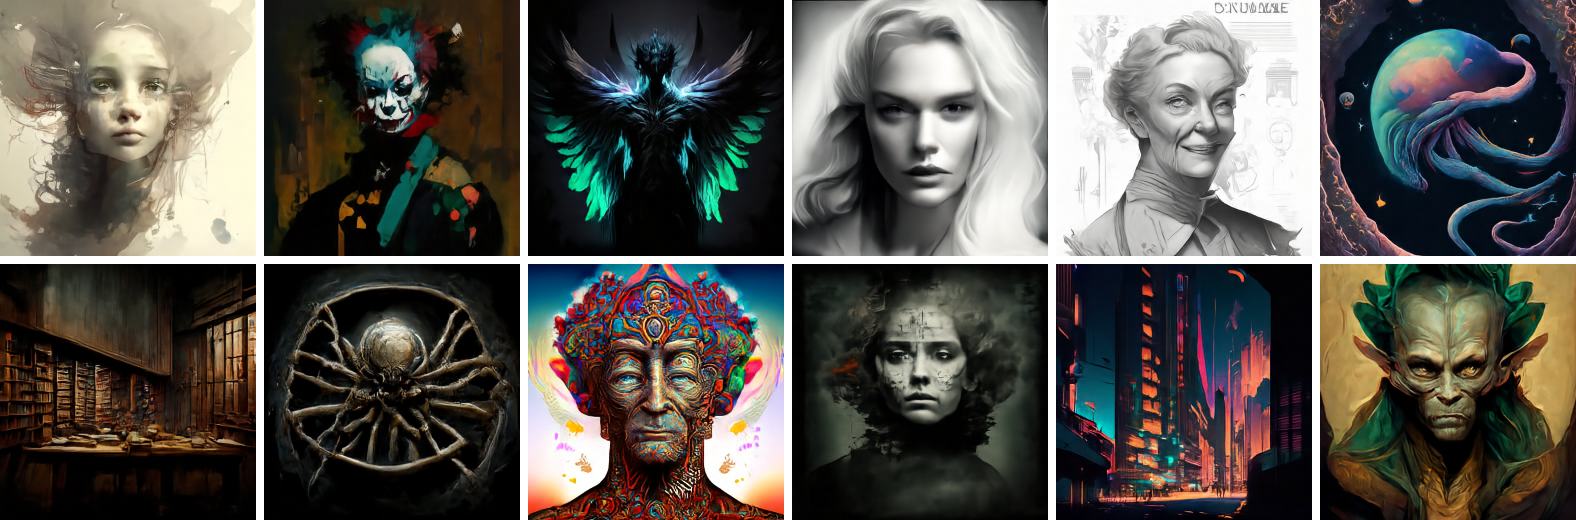
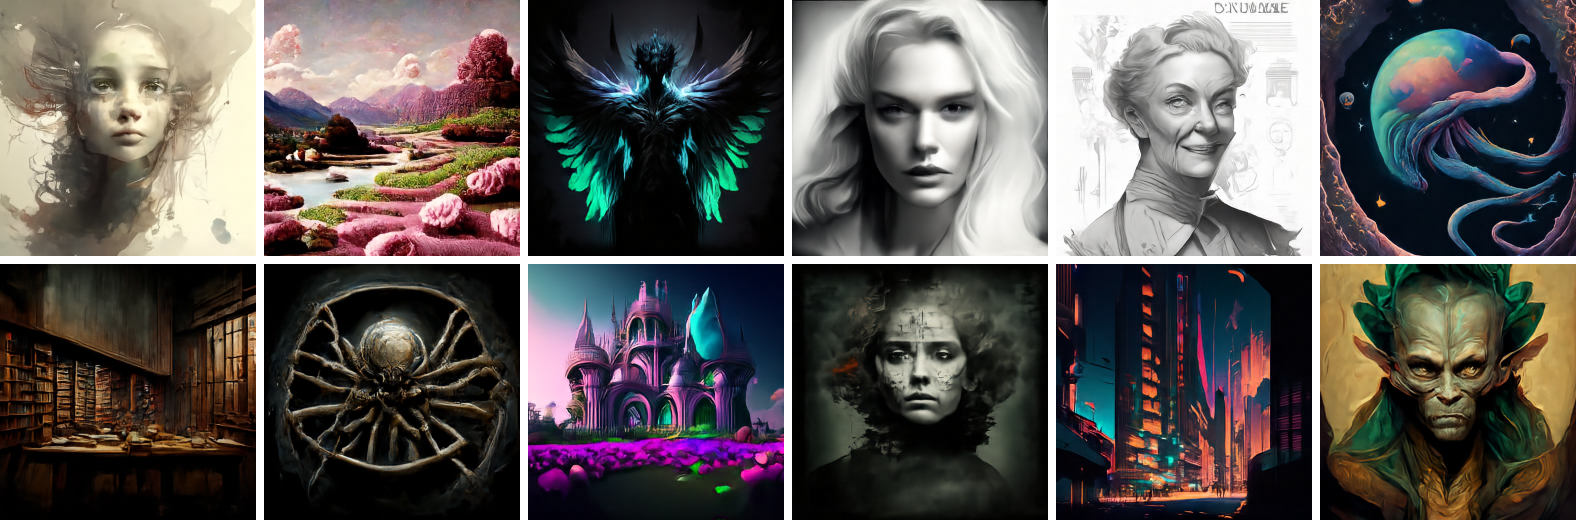
change T2I image

Changed region(s): [[0.1555, 0.0, 0.4975, 1.0]]

diff --git a/README.md b/README.md
@@ -47,7 +47,7 @@ detail can be modeled locally.
 ImageNet-512, SpecSlot (W256/K4) reaches **9.14 FID at 135.64 GFLOPs**: 2.84
 FID below the FLOPs-matched JiT-CM control at 3.9% lower cost, and within
 0.69 FID of JiT-B/16 at 38.2% lower cost. In text-to-image generation, it
-reaches **62.21 DPG-Bench**, surpassing JiT-B/8 (61.15) at 41.1% lower cost.
+reaches **62.21 DPG-Bench**, surpassing JiT-B/8 (61.15) at 40.6% lower cost.
 
 <p align="center">
   <img src="assets/architecture.png" width="90%"
@@ -169,8 +169,8 @@ Place the BLIP3o WebDataset mixture under one directory:
 /path/to/your/T2I/**/*.tar
 ```
 
-The launcher uses the paper's 256px, 400-epoch protocol and resumes from
-`checkpoint-last.pth` when a run directory already contains one.
+The launcher uses the paper's 256px, 400-epoch protocol. Set `RESUME=auto` to
+resume from `checkpoint-last.pth`; without it, the run starts from scratch.
 
 ```bash
 # SpecSlot W256/K4/B1536
